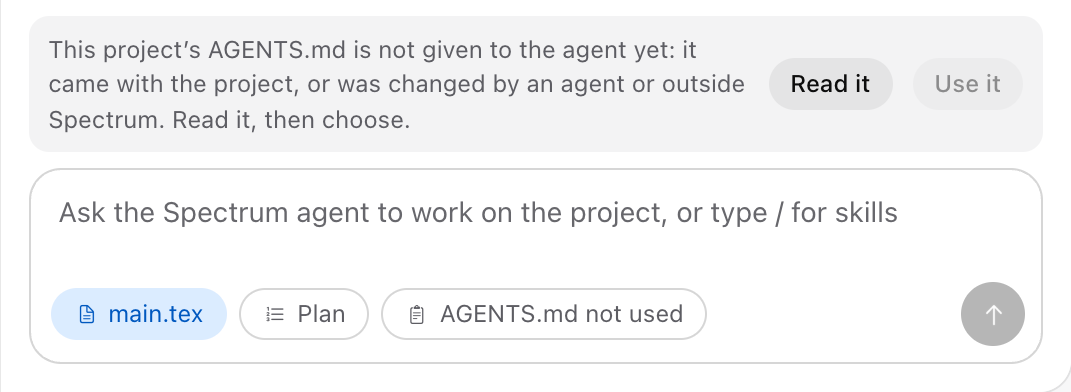
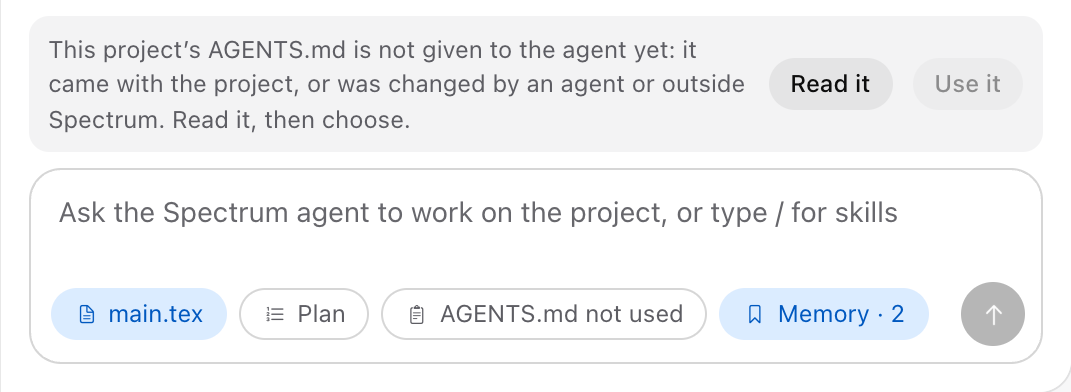
The Memory chip and sheet: see, edit, delete and add what the Spectrum agent remembers
A suggestion card's Add keeps the line in the project's memory and no longer writes AGENTS.md; the
Remembered section handling is gone. The chip beside AGENTS.md's counts the lines and opens a sheet with
each line's edit and delete and Add a line. Handbook: a subsection for the memory, AGENTS.md's paragraphs
without it, the cards and the ask picture retaken and the sheet pictured.

Changed region(s): [[0.6471, 0.7347, 0.8936, 0.8878]]

diff --git a/apps/frontend/src/editor/agent/parts.tsx b/apps/frontend/src/editor/agent/parts.tsx
@@ -1,12 +1,13 @@
 import { useEffect, useId, useMemo, useRef, useState } from 'react';
 import type { ReactNode } from 'react';
 import { listSkills, restoreVersion } from '../../api/client';
-import type { AgentUserRequest, Skill, SuggestedTodo, TodoLink } from '../../api/client';
+import type { AgentMemory, AgentUserRequest, Skill, SuggestedTodo, TodoLink } from '../../api/client';
 import Icon from '../../app/Icon';
 import { MenuButton } from '../../app/Menu';
 import { TAG_COLOURS } from '../../app/appearance';
 import type { TagColour } from '../../app/settings';
-import { confirmDialog } from '../../app/Dialogs';
+import { confirmDialog, promptDialog } from '../../app/Dialogs';
+import Sheet from '../../app/Sheet';
 import SplitDiffView, { DiffCount, countChanges } from '../SplitDiffView';
 import HunkList, { PdfCompare, reviewPdfs } from '../HunkReview';
 import type { Pdf, ReviewKeys } from '../HunkReview';
@@ -17,7 +18,6 @@ import { useEditor } from '../EditorContext';
 import type { TodosState } from '../TodosList';
 import { Markdown, VERSIONS_CHANGED, errorText } from '../shared';
 import type { AgentCommand, Checkpoint, Item, PlanEntry, ToolCall } from './transcript';
-import { INSTRUCTIONS_FILE, hasInstruction } from './instructions';
 
 // The pieces both agent tabs are made of: transcript cards, plan strip, changes tray and review, composer.
 
@@ -285,29 +285,87 @@ function TodoCard({ todo, todos }: { todo: SuggestedTodo; todos: TodosState }) {
 }
 
 /**
- * The project's AGENTS.md as the Spectrum agent's cards need it: its text (null: there is none), why a line cannot be
- * added now, and the way to add one.
+ * What the Spectrum agent remembers for the project, as its cards and the Memory sheet need it: the lines (null until
+ * they are read) and the user's changes, each resolving whether it was made.
  */
-export type Memory = { text: string | null; blocked?: string; add(line: string): Promise<void> };
+export type Memory = {
+  lines: AgentMemory['lines'] | null;
+  max?: AgentMemory['max'];
+  add(text: string): Promise<boolean>;
+  edit(id: string, text: string): Promise<boolean>;
+  remove(id: string): Promise<boolean>;
+};
 
-/** A line the agent suggests for AGENTS.md: added only by this button. */
-function InstructionCard({ text, memory }: { text: string; memory?: Memory }) {
+/** A line the agent suggests to remember: kept only by this button. */
+function MemoryCard({ text, memory }: { text: string; memory?: Memory }) {
   const [busy, setBusy] = useState(false);
-  const added = !!memory && hasInstruction(memory.text || '', text);
+  const added = !!memory?.lines?.some((l) => l.text === text.trim());
   return (
     <div className="agent-card">
       <Icon name="text.badge.plus" />
       <div className="grow">
-        <div className="agent-card-label">Suggested instruction for {INSTRUCTIONS_FILE}</div>
+        <div className="agent-card-label">Suggested to remember</div>
         <div>{text}</div>
-        {memory?.blocked && !added && <div className="field-hint">{memory.blocked}</div>}
       </div>
       {memory && (
-        <button className="btn small" disabled={added || busy || !!memory.blocked} title={`Adds this line to ${INSTRUCTIONS_FILE}, which agents read with every request in this project`} onClick={() => { setBusy(true); void memory.add(text).finally(() => setBusy(false)); }}>
+        <button className="btn small" disabled={added || busy} title="Spectrum remembers this line for the project and gives it to the Spectrum agent with every request" onClick={() => { setBusy(true); void memory.add(text).finally(() => setBusy(false)); }}>
           {added ? 'Added' : 'Add'}
         </button>
       )}
     </div>
+  );
+}
+
+/** What the Spectrum agent remembers for the project: each line to edit or delete, and a line of the user's own to add. */
+export function MemorySheet({ memory, onClose }: { memory: Memory; onClose(): void }) {
+  const lines = memory.lines || [];
+  const full = !!memory.max && lines.length >= memory.max.lines;
+  const ask = (title: string, defaultValue = '') =>
+    promptDialog({ title, defaultValue, placeholder: 'Spelling: Australian English', message: `One line${memory.max ? `, up to ${memory.max.chars} characters` : ''}.`, confirmLabel: defaultValue ? 'Save' : 'Add' });
+  const add = async () => {
+    const text = await ask('Remember a line');
+    if (text?.trim()) await memory.add(text);
+  };
+  const edit = async (id: string, old: string) => {
+    const text = await ask('Edit the line', old);
+    if (text?.trim() && text.trim() !== old) await memory.edit(id, text);
+  };
+  return (
+    <Sheet
+      title="Memory"
+      width={520}
+      onClose={onClose}
+      actions={
+        <>
+          <button className="btn" disabled={full} title={full ? `Spectrum remembers ${memory.max?.lines} lines at most for a project. Delete one first.` : undefined} onClick={() => void add()}>
+            <Icon name="plus" /> Add a line
+          </button>
+          <button className="btn primary" onClick={onClose}>
+            Done
+          </button>
+        </>
+      }
+    >
+      <div className="field-hint">What the Spectrum agent remembers for this project. Spectrum keeps it on this computer, apart from the project’s files, and gives it to the agent with every request. Local agents keep their own memory.</div>
+      <div className="kv-list" role="list">
+        {lines.map((line) => (
+          <div key={line.id} className="kv-row persona-row" role="listitem">
+            <span className="persona-text">{line.text}</span>
+            <button className="icon-btn small" title="Edit" aria-label={`Edit “${line.text}”`} onClick={() => void edit(line.id, line.text)}>
+              <Icon name="pencil" />
+            </button>
+            <button className="icon-btn small" title="Delete" aria-label={`Delete “${line.text}”`} onClick={() => void memory.remove(line.id)}>
+              <Icon name="trash" />
+            </button>
+          </div>
+        ))}
+        {!lines.length && (
+          <div className="kv-row">
+            <span>Nothing is remembered yet. Add a line, or press Add on a line the agent suggests.</span>
+          </div>
+        )}
+      </div>
+    </Sheet>
   );
 }
 
@@ -417,7 +475,7 @@ export function Transcript({
   onAnswer?: (request: AgentUserRequest, answer: unknown) => Promise<void>;
   /** the Spectrum agent's plan card's buttons */
   plan?: PlanActions;
-  /** the project's AGENTS.md, for the lines the Spectrum agent suggests */
+  /** the project's memory, for the lines the Spectrum agent suggests */
   memory?: Memory;
 }) {
   return (
@@ -453,7 +511,7 @@ export function Transcript({
         ) : item.type === 'plan' ? (
           plan ? <PlanCard key={item.key} steps={item.steps} actions={plan} /> : null
         ) : item.type === 'instruction' ? (
-          <InstructionCard key={item.key} text={item.text} memory={memory} />
+          <MemoryCard key={item.key} text={item.text} memory={memory} />
         ) : item.type === 'notice' ? (
           <div className={`agent-note ${item.error ? 'error' : ''}`} key={item.key} role={item.error ? 'alert' : undefined}>
             {item.text}

diff --git a/apps/frontend/src/editor/agent/SpectrumAgentTab.tsx b/apps/frontend/src/editor/agent/SpectrumAgentTab.tsx
@@ -1,6 +1,6 @@
 import { useEffect, useMemo, useRef, useState } from 'react';
-import { ApiError, agentRunEventsUrl, approveAgentInstructions, continueAgentRun, findAgentRun, getAgentInstructions, getChat, getResearch, listChats, startAgentTurn, steerAgentRun, stopAgentRun } from '../../api/client';
-import type { AgentEvent, AgentInstructions, AgentRunResult, AgentUserRequest, ChatSummary, ChatThread, ResearchSession } from '../../api/client';
+import { ApiError, addAgentMemory, agentRunEventsUrl, approveAgentInstructions, continueAgentRun, deleteAgentMemory, editAgentMemory, findAgentRun, getAgentInstructions, getAgentMemory, getChat, getResearch, listChats, startAgentTurn, steerAgentRun, stopAgentRun } from '../../api/client';
+import type { AgentEvent, AgentInstructions, AgentMemory, AgentRunResult, AgentUserRequest, ChatSummary, ChatThread, ResearchSession } from '../../api/client';
 import type { Section } from '../../app/SettingsSheet';
 import Icon from '../../app/Icon';
 import { MenuButton } from '../../app/Menu';
@@ -14,12 +14,12 @@ import { resolveInstructions } from '../personas';
 import { untrusted } from '../../../../backend/src/utils/outsideText.js';
 import { docLanguage } from '../../../../backend/src/utils/docLanguage.js';
 import { CHATS_CHANGED, errorText, isDeletion, patchesToChanges, relativeTime } from '../shared';
-import { AgentComposer, ChangesTray, PersonaPicker, PlanStrip, ReviewView, Transcript, Welcome, openTodos, readStored, taskPersona, useFollow, useSkills, writeStored } from './parts';
+import { AgentComposer, ChangesTray, MemorySheet, PersonaPicker, PlanStrip, ReviewView, Transcript, Welcome, openTodos, readStored, taskPersona, useFollow, useSkills, writeStored } from './parts';
 import type { ContextKind, Draft, Memory, PlanActions, TaskRequest, TrayChange, TrayPart } from './parts';
 import type { AgentStatus } from './LocalAgentTab';
 import { RESUME_HINT, RUNNING, addRunEvent, askAnswer, closeChanges, metaOf, openChanges, planOf, planPrompt, resumeNote, runView, storedChanges, threadItems } from './transcript';
 import type { Checkpoint, ThreadMeta as Meta } from './transcript';
-import { INSTRUCTIONS_FILE, hasInstruction, starterInstructions, withInstruction } from './instructions';
+import { INSTRUCTIONS_FILE, starterInstructions } from './instructions';
 import AgentHeader, { useTurnChoice } from './AgentHeader';
 import type { TurnChoice } from './usage';
 
@@ -120,9 +120,12 @@ export default function SpectrumAgentTab({
   const [planOn, setPlanOn] = useState(false);
   const planRef = useRef(planOn);
   planRef.current = planOn;
-  // the project's AGENTS.md: whether the agent is given it, and its text for the suggested lines
-  const [rules, setRules] = useState<(AgentInstructions & { text: string | null }) | null>(null);
+  // the project's AGENTS.md: whether the agent is given it
+  const [rules, setRules] = useState<AgentInstructions | null>(null);
   const [rulesRead, setRulesRead] = useState('');
+  // what the agent remembers for the project, and whether its sheet is open
+  const [remembered, setRemembered] = useState<AgentMemory | null>(null);
+  const [memoryOpen, setMemoryOpen] = useState(false);
   const tabRef = useRef<HTMLDivElement>(null);
   const [applying, setApplying] = useState(false);
   const [reviewing, setReviewing] = useState(false);
@@ -190,8 +193,12 @@ export default function SpectrumAgentTab({
   const refreshRules = async () => {
     const a = latest.current;
     const status = await getAgentInstructions(a.projectId).catch(() => null);
-    if (status) setRules({ ...status, text: status.exists ? await a.ensureFileContent(INSTRUCTIONS_FILE).catch(() => null) : null });
+    if (status) setRules(status);
   };
+  // the memory changes only through this tab (or another window's): read when the workspace is shown
+  useEffect(() => {
+    if (active) void getAgentMemory(api.projectId).then(setRemembered, () => undefined);
+  }, [api.projectId, active]);
   // read again when the workspace is shown, a turn ends or a change is applied: each may have changed the file
   useEffect(() => {
     if (active) void refreshRules();
@@ -479,21 +486,25 @@ export default function SpectrumAgentTab({
     }
   };
 
-  /** A line the agent suggested, added to AGENTS.md on the user's click (made with the line when there is no file yet). */
-  const addRule = async (line: string) => {
+  /** A change to the project's memory, from a suggestion card's Add or the Memory sheet; resolves whether it was made. */
+  const changeMemory = async (change: (projectId: string) => Promise<AgentMemory>, failed: string, done?: string) => {
     const a = latest.current;
     try {
-      const status = await getAgentInstructions(a.projectId);
-      if (status.exists && !status.approved) throw new Error(`Read ${INSTRUCTIONS_FILE} and choose Use it first.`);
-      const text = status.exists ? await a.ensureFileContent(INSTRUCTIONS_FILE) : '# Instructions for agents\n';
-      if (!hasInstruction(text, line)) await a.writeProjectFile(INSTRUCTIONS_FILE, withInstruction(text, line));
-      a.notify(`Added to ${INSTRUCTIONS_FILE}`, 'success');
+      setRemembered(await change(a.projectId));
+      if (done) a.notify(done, 'success');
+      return true;
     } catch (err) {
-      a.notify(`Couldn’t add the line: ${errorText(err)}`, 'error');
+      a.notify(`${failed}: ${errorText(err)}`, 'error');
+      return false;
     }
-    await refreshRules();
   };
-  const memory: Memory = { text: rules?.text ?? null, add: addRule, ...(rules?.exists && !rules.approved && { blocked: `${INSTRUCTIONS_FILE} is not in use yet: read it and choose Use it first.` }) };
+  const memory: Memory = {
+    lines: remembered?.lines ?? null,
+    max: remembered?.max,
+    add: (text) => changeMemory((id) => addAgentMemory(id, text), 'Couldn’t add the line', 'Remembered for this project'),
+    edit: (line, text) => changeMemory((id) => editAgentMemory(id, line, text), 'Couldn’t save the line'),
+    remove: (line) => changeMemory((id) => deleteAgentMemory(id, line), 'Couldn’t delete the line')
+  };
 
   /** The AGENTS.md chip: opens the file, or offers to make one to start from. */
   const openRules = async () => {
@@ -740,11 +751,15 @@ export default function SpectrumAgentTab({
               >
                 <Icon name="list.clipboard" /> {!rules?.exists ? `Add ${INSTRUCTIONS_FILE}` : rules.approved ? `Using ${INSTRUCTIONS_FILE}` : `${INSTRUCTIONS_FILE} not used`}
               </button>
+              <button className={`chip ${remembered?.lines.length ? 'active' : ''}`} title="What the Spectrum agent remembers for this project: see, edit and add lines" onClick={() => setMemoryOpen(true)}>
+                <Icon name="bookmark" /> Memory{remembered?.lines.length ? ` · ${remembered.lines.length}` : ''}
+              </button>
             </>
           }
           onSend={(text, opts) => void send(text, { ...opts, plan: planRef.current })}
         />
       </div>
+      {memoryOpen && <MemorySheet memory={memory} onClose={() => setMemoryOpen(false)} />}
     </div>
   );
 }

diff --git a/apps/frontend/src/editor/agent/instructions.check.ts b/apps/frontend/src/editor/agent/instructions.check.ts
@@ -1,39 +1,10 @@
-// Self-check for AGENTS.md's starter and the lines added to it. Run:
+// Self-check for AGENTS.md's starter. Run:
 // npx esbuild apps/frontend/src/editor/agent/instructions.check.ts --bundle --platform=node --log-level=warning | node
-import { MAX_INSTRUCTIONS, hasInstruction, starterInstructions, withInstruction } from './instructions';
+import { starterInstructions } from './instructions';
 
 const eq = (actual: unknown, expected: unknown, what: string) => {
   if (JSON.stringify(actual) !== JSON.stringify(expected)) throw new Error(`${what}: expected ${JSON.stringify(expected)}, got ${JSON.stringify(actual)}`);
 };
-const throws = (fn: () => unknown, pattern: RegExp, what: string) => {
-  try {
-    fn();
-  } catch (err) {
-    if (pattern.test((err as Error).message)) return;
-    throw new Error(`${what}: threw ${(err as Error).message}`);
-  }
-  throw new Error(`${what}: did not throw`);
-};
-
-// a remembered line goes under its own heading, made once at the end, so the user's own rules are not mixed with it
-const mine = '# Instructions for agents\n\n## Rules\n\n- Spelling: Australian English.\n';
-const one = withInstruction(mine, 'Use \\qty for units.');
-eq(one, `${mine}\n## Remembered\n\n- Use \\qty for units.\n`, 'the first line makes the section');
-const two = withInstruction(one, '  Never touch figures/.  ');
-eq(two, `${mine}\n## Remembered\n\n- Use \\qty for units.\n- Never touch figures/.\n`, 'the next goes after it');
-// the section in the middle of the file: the line goes at its end, before the next heading
-eq(withInstruction('## Remembered\n\n- a\n\n## Later\n\n- z\n', 'b'), '## Remembered\n\n- a\n- b\n\n## Later\n\n- z\n', 'inside the section');
-eq(withInstruction('## Remembered\n## Later\n', 'b'), '## Remembered\n\n- b\n## Later\n', 'an empty section');
-eq(withInstruction('', 'b'), '## Remembered\n\n- b\n', 'an empty file');
-eq(withInstruction('rule\r\n', 'b'), 'rule\r\n\r\n## Remembered\r\n\r\n- b\r\n', 'Windows line endings are kept');
-// a line is one line, whatever was suggested
-eq(withInstruction('', 'two\nlines'), '## Remembered\n\n- two lines\n', 'one line');
-// every remembered line can be found again, and is not added twice
-eq([hasInstruction(two, 'Use \\qty for units.'), hasInstruction(two, 'Spelling: Australian English.'), hasInstruction(two, 'Use \\qty')], [true, true, false], 'found as an item');
-eq(hasInstruction('Plain rule\n', 'Plain rule'), true, 'or as a line of its own');
-// the file never grows past what an agent is given
-throws(() => withInstruction('x'.repeat(MAX_INSTRUCTIONS - 20), 'one more rule'), /at its limit of 20,000 characters/, 'the limit');
-
 const starter = starterInstructions({ mainFile: 'paper/main.typ', language: 'Typst' });
 eq(/^# Instructions for agents\n/.test(starter) && starter.includes('- Main file: paper/main.typ (Typst)\n'), true, 'the starter names the main file and its language');
 eq(starterInstructions({ mainFile: '', language: 'LaTeX' }).includes('- Language: LaTeX\n'), true, 'or the language alone');

diff --git a/apps/frontend/src/editor/agent/instructions.ts b/apps/frontend/src/editor/agent/instructions.ts
@@ -1,37 +1,8 @@
-// AGENTS.md, the user's own file of standing instructions for agents in one project: the starter Spectrum offers, and
-// a line the Spectrum agent suggested added to it when the user says so. The backend (agentInstructions.js) decides
-// whether the file reaches a prompt; nothing here writes it but on the user's click.
+// AGENTS.md, the user's own file of standing instructions for agents in one project, and the starter Spectrum offers.
+// The backend (agentInstructions.js) decides whether the file reaches a prompt. What the Spectrum agent remembers is
+// kept apart from it, by Spectrum (agentMemory.js).
 
 export const INSTRUCTIONS_FILE = 'AGENTS.md';
-/** What a prompt takes of the file (the backend's MAX_INSTRUCTIONS): a line that would take it past this is not added */
-export const MAX_INSTRUCTIONS = 20000;
-const REMEMBERED = '## Remembered';
-
-const rule = (line: string) => line.replace(/^\s*[-*]\s+/, '').trim();
-
-/** Whether the file already holds the line, as a list item or as it is. */
-export const hasInstruction = (text: string, line: string) => text.split(/\r?\n/).some((l) => rule(l) === line.trim());
-
-/**
- * The file's text with the line added as an item under “## Remembered”, a section made at the end when there is
- * none, so what an agent suggested is told apart from what the user wrote. Throws when the file would grow past what
- * an agent is given.
- */
-export function withInstruction(text: string, line: string) {
-  const item = `- ${line.trim().replace(/\s*[\r\n]+\s*/g, ' ')}`;
-  if (text.length + item.length + REMEMBERED.length + 4 > MAX_INSTRUCTIONS) throw new Error(`${INSTRUCTIONS_FILE} is at its limit of ${MAX_INSTRUCTIONS.toLocaleString('en-AU')} characters. Shorten it first.`);
-  const eol = text.includes('\r\n') ? '\r\n' : '\n';
-  const lines = text.split(/\r?\n/);
-  const head = lines.findIndex((l) => l.trim() === REMEMBERED);
-  if (head < 0) return [text.replace(/\s+$/, ''), ...(text.trim() ? [''] : []), REMEMBERED, '', item, ''].join(eol).replace(/^(\r?\n)+/, '');
-  // after the section's last line that says something, before the next heading
-  let end = lines.findIndex((l, i) => i > head && /^#{1,6}\s/.test(l));
-  if (end < 0) end = lines.length;
-  let at = end;
-  while (at > head + 1 && !lines[at - 1].trim()) at -= 1;
-  lines.splice(at, 0, ...(at === head + 1 ? ['', item] : [item]), ...(at === lines.length ? [''] : []));
-  return lines.join(eol);
-}
 
 /** The file Spectrum offers to start from: what the project is, and a few rules for the user to make their own. */
 export const starterInstructions = ({ mainFile, language }: { mainFile: string; language: string }) => `# Instructions for agents

diff --git a/apps/frontend/src/editor/agent/transcript.ts b/apps/frontend/src/editor/agent/transcript.ts
@@ -41,7 +41,7 @@ export type Item =
   | { type: 'request'; key: string; request: AgentUserRequest; answered: boolean }
   /** the Spectrum agent's plan, waiting for the user's approval */
   | { type: 'plan'; key: string; steps: string[] }
-  /** a line the Spectrum agent suggests for the project's AGENTS.md */
+  /** a line the Spectrum agent suggests to remember for the project */
   | { type: 'instruction'; key: string; text: string }
   | { type: 'notice'; key: string; text: string; error: boolean }
   | { type: 'checkpoint'; key: string; checkpoint: Checkpoint };
@@ -195,7 +195,7 @@ export type ThreadMeta = {
   plan?: PlanEntry[];
   /** on the user's approval: the agent stops before each new file it would change */
   eachFile?: boolean;
-  /** lines the agent suggested for the project's AGENTS.md */
+  /** lines the agent suggested to remember for the project */
   instructions?: string[];
 };
 export const metaOf = (m: { meta?: Record<string, unknown> }) => (m.meta || {}) as ThreadMeta;
@@ -300,14 +300,14 @@ const STEPS: Record<string, [kind: string, alone: string, about?: string]> = {
   ask_user: ['other', 'Ask you a question'],
   propose_plan: ['other', 'Propose a plan'],
   step_done: ['other', 'Tick off a step of the plan'],
-  suggest_instruction: ['other', 'Suggest an instruction for AGENTS.md']
+  suggest_memory: ['other', 'Suggest a line to remember']
 };
 
 // ─── The Spectrum agent's questions and plans: what a turn ended with, which the user's next message answers ───
 
 // steps with nothing to open, which the card under them or the plan strip already shows: no card unless one failed.
 // Nor for a change held back by the pause before the next file (paused), which the “Go on to …?” card stands for.
-const QUIET = ['ask_user', 'propose_plan', 'step_done', 'suggest_instruction'];
+const QUIET = ['ask_user', 'propose_plan', 'step_done', 'suggest_memory'];
 const quiet = (step: { tool: string; ok?: boolean; status?: string; paused?: boolean }) => !!step.paused || (QUIET.includes(step.tool) && (step.status ? step.status !== 'failed' : step.ok !== false));
 
 /**

diff --git a/apps/frontend/src/api/client.ts b/apps/frontend/src/api/client.ts
@@ -1306,7 +1306,7 @@ export type AgentRunResult = {
   ask?: AgentAsk;
   /** the approved plan's steps as the turn left them */
   plan?: AgentPlanEntry[];
-  /** lines the agent suggests for the project's AGENTS.md */
+  /** lines the agent suggests to remember for the project */
   instructions?: string[];
 };
 
@@ -1372,6 +1372,13 @@ export type AgentInstructions = { exists: boolean; approved: boolean; hash?: str
 export const getAgentInstructions = (projectId: string) => request<{ ok: boolean } & AgentInstructions>(`/api/projects/${projectId}/agent-instructions`);
 /** Approves the file as it was shown (its hash). 409 when it changed since. */
 export const approveAgentInstructions = (projectId: string, hash: string) => request<{ ok: boolean } & AgentInstructions>(`/api/projects/${projectId}/agent-instructions/approve`, json('POST', { hash }));
+/** What the Spectrum agent remembers for the project, kept by Spectrum on this computer; each call answers with the lines as they are now */
+export type AgentMemory = { lines: { id: string; text: string }[]; max: { lines: number; chars: number } };
+const memoryUrl = (projectId: string, line?: string) => `/api/projects/${projectId}/agent-memory${line ? `/${encodeURIComponent(line)}` : ''}`;
+export const getAgentMemory = (projectId: string) => request<{ ok: boolean } & AgentMemory>(memoryUrl(projectId));
+export const addAgentMemory = (projectId: string, text: string) => request<{ ok: boolean } & AgentMemory>(memoryUrl(projectId), json('POST', { text }));
+export const editAgentMemory = (projectId: string, line: string, text: string) => request<{ ok: boolean } & AgentMemory>(memoryUrl(projectId, line), json('PUT', { text }));
+export const deleteAgentMemory = (projectId: string, line: string) => request<{ ok: boolean } & AgentMemory>(memoryUrl(projectId, line), json('DELETE'));
 
 export function callLLM(payload: {
   messages: { role: 'system' | 'user' | 'assistant'; content: string }[];
